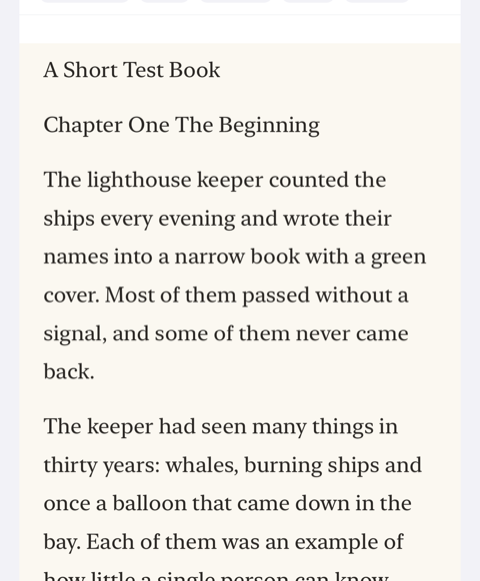
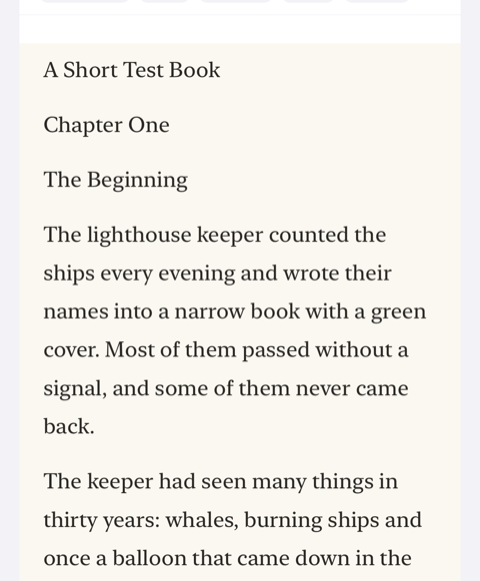
docs(reader): per-model OCR comparison, mermaid overview, paddleocr-vl task in the example
- Reader guide: one table with the same scanned page per OCR model (text mode and image mode with a search hit) and the time per page relative to the fastest model; the overview of how a file becomes a document is a mermaid diagram; shorter Pages and sidecar texts.
- Example app: the OCR panel offers the PaddleOCR-VL task (Text or Spotting); Spotting returns line boxes, so highlights on the page image follow the line.
- README: the Reader section links the guide without the model comparison.

Changed region(s): [[0.0938, 0.2788, 0.9062, 1.0], [0.375, 0.1859, 0.6875, 0.2478]]

diff --git a/example/src/screens/reader/ReaderPanels.tsx b/example/src/screens/reader/ReaderPanels.tsx
@@ -47,7 +47,7 @@ const FAMILY_RESULT: Record<OcrFamily, { name: string; result: string }> = {
   paddleocr_vl: {
     name: 'PaddleOCR-VL',
     result:
-      'Text in paragraphs. No places on the page, so highlights cover the whole page. Large.',
+      'Task Text: paragraphs without places on the page, so highlights cover the whole page. Task Spotting: lines with their places, like PP-OCR. Large.',
   },
 };
 
@@ -229,6 +229,8 @@ export function ReaderOcrPanel({
   pages,
   direction,
   onDirection,
+  paddleTask,
+  onPaddleTask,
   busy,
   progress,
   status,
@@ -244,6 +246,9 @@ export function ReaderOcrPanel({
   pages: { total: number; withText: number };
   direction: 'ltr' | 'rtl';
   onDirection: (d: 'ltr' | 'rtl') => void;
+  /** PaddleOCR-VL task: Markdown text, or lines with their places. */
+  paddleTask: 'ocr' | 'spotting';
+  onPaddleTask: (t: 'ocr' | 'spotting') => void;
   busy: boolean;
   progress: { done: number; total: number } | null;
   status: PanelStatus;
@@ -343,6 +348,17 @@ export function ReaderOcrPanel({
         }
       />
 
+      {family === 'paddleocr_vl' ? (
+        <Choice
+          label="PaddleOCR-VL task"
+          options={['ocr', 'spotting'] as const}
+          value={paddleTask}
+          onChange={onPaddleTask}
+          disabled={busy}
+          format={(t) => (t === 'ocr' ? 'Text' : 'Spotting')}
+        />
+      ) : null}
+
       <Choice
         label="Pages"
         options={['page', 'around', 'all'] as const}
@@ -419,6 +435,7 @@ export function ReaderOcrPanel({
           "recognizeReaderPages(doc, ocr, { scope: 'around', at })",
           "scope: { sections: ['s4'] }, force: true",
           "recognize: { readingDirection: 'rtl' }",
+          "recognize: { instruction: { task: 'spotting' } } // paddleocr_vl",
           'saveReaderRecognition(doc, file) / loadReaderRecognition(doc, file)',
         ]}
       />

diff --git a/example/src/screens/reader/ReaderScreen.tsx b/example/src/screens/reader/ReaderScreen.tsx
@@ -227,6 +227,7 @@ export default function ReaderScreen() {
     );
   }, [setCustomInitForm]);
   const [direction, setDirection] = useState<'ltr' | 'rtl'>('ltr');
+  const [paddleTask, setPaddleTask] = useState<'ocr' | 'spotting'>('ocr');
   const [ocrScope, setOcrScope] = useState<OcrScope>('around');
   const [ocrBusy, setOcrBusy] = useState(false);
   const [ocrProgress, setOcrProgress] = useState<{
@@ -324,7 +325,12 @@ export default function ReaderScreen() {
           scope: scope === 'page' ? { sections: [page] } : scope,
           force: scope === 'page',
           at: position,
-          recognize: { readingDirection: direction },
+          recognize: {
+            readingDirection: direction,
+            ...(engine.family === 'paddleocr_vl'
+              ? { instruction: { task: paddleTask } }
+              : {}),
+          },
           onDocument: apply,
           onProgress: (e) => {
             if (!e.hasText) empty += 1;
@@ -360,7 +366,7 @@ export default function ReaderScreen() {
         setOcrProgress(null);
       }
     },
-    [direction, ocr.engineRef, position]
+    [direction, ocr.engineRef, paddleTask, position]
   );
 
   // Recognized text is saved per book (documentKey) in the app's documents folder.
@@ -914,6 +920,8 @@ export default function ReaderScreen() {
                 pages={pageCoverage}
                 direction={direction}
                 onDirection={setDirection}
+                paddleTask={paddleTask}
+                onPaddleTask={setPaddleTask}
                 busy={ocrBusy}
                 progress={ocrProgress}
                 status={ocrStatus}

diff --git a/docs/reader.md b/docs/reader.md
@@ -93,23 +93,23 @@ Details: [Read aloud](#read-aloud).
 
 ### From file to view
 
-```
-EPUB ──extractDocumentText──▶ text buffer + structure ─┐
-     ──extractDocumentImages(scope: 'all')──▶ images ──┼─▶ ReaderDocument ──▶ <ReaderView>
-     ──computeDocumentKey──▶ documentKey ─────────────┘   (stable IDs, app sections)
-```
-
-`loadReaderDocument(source)` runs all three steps. Use `createReaderDocument` when you already extracted the text, for example to synthesize it as well.
-
-PDFs and comics are page-based:
-
-```
-PDF ──extractPdfTextLayer(layout: 'paragraphs')──▶ text buffer + structure ─┐
-    ──rasterizePdfPages(strategy: 'lazy-lru')──▶ page images ───────────────┼─▶ ReaderDocument
-CBZ ──extractDocumentImages(strategy: 'lazy-lru')──▶ page images ──▶ createReaderDocument({ pages })
+```mermaid
+flowchart LR
+  E["EPUB · FB2 · MOBI"] -->|extractDocumentText| T[text buffer + structure]
+  E -->|"extractDocumentImages(scope: 'all')"| I[images]
+  P[PDF] -->|"extractPdfTextLayer(layout: 'paragraphs')"| T
+  P -->|"rasterizePdfPages(strategy: 'lazy-lru')"| G[page images]
+  C[CBZ] -->|"extractDocumentImages(strategy: 'lazy-lru')"| G
+  T --> D[ReaderDocument]
+  I --> D
+  G --> D
+  K["computeDocumentKey(file)"] --> D
+  D --> V[ReaderView]
 ```
 
-Each page is a section (`kind: 'page'`) whose first block, `s{n}.b0`, is the page image (`type: 'page'`); the page's text blocks follow. `pageDisplay` on the view chooses what is shown: the text, the page images, or both ([Pages](#pages)).
+`loadReaderDocument(source)` runs these steps for every format. Use `createReaderDocument` when you already have the buffers, for example to synthesize the text as well.
+
+In PDFs and comics, each page is a section (`kind: 'page'`) whose first block, `s{n}.b0`, is the page image (`type: 'page'`); the page's text blocks follow. `pageDisplay` on the view chooses what is shown: the text, the page images, or both ([Pages](#pages)).
 
 ### Stable IDs and locators
 
@@ -223,7 +223,7 @@ await saveReaderRecognition(doc, { kind: 'app', base: 'documents', path: 'book.o
 doc = await loadReaderRecognition(doc, { kind: 'app', base: 'documents', path: 'book.ocr' });
 ```
 
-Saves the document's recognized pages to a sidecar file, and loads them back in a later session without running OCR again. The file holds each page's text blocks with their type, place, line boxes and text. Encoding, writing, reading and attaching happen natively, so no text crosses the bridge. Loading rejects a file of another book (`documentKey`), of another model (when you pass `modelId` on save and load and they differ), and one with pages this document does not have (`ERR_READER_SIDECAR_MISMATCH`). It also rejects a corrupt file (`ERR_READER_SIDECAR_INVALID`).
+Saves the document's recognized pages to a sidecar file, and loads them back in a later session without running OCR again. Loading rejects a file of another book (`documentKey`), of another model (when you pass `modelId` on save and load and they differ), and one with pages this document does not have (`ERR_READER_SIDECAR_MISMATCH`). It also rejects a corrupt file (`ERR_READER_SIDECAR_INVALID`).
 
 #### `computeDocumentKey(source)`
 
@@ -602,7 +602,7 @@ Page sections (PDF pages, comic pages) start with their page image; `pageDisplay
 | `'imageAndText'` | The page image, then its text | Running headers, footers and page numbers |
 | `'auto'` (default) | `'image'` for page documents (`format: 'pages'`), else `'text'` | |
 
-Hidden blocks still count for reading progress: they belong to the row that shows them (the page, or the nearest text row), so `onFurthestPositionChange` and `onSectionEnd` see every block. In `'image'`, a block counts as visible when at least half of it (or of the viewport) is on screen, from its rectangle on the page; `scrollTo` a block puts its place on the page at the top. Pages are full width without margins, and their height comes from the page size before the page is rendered.
+Hidden blocks still count for reading progress, so `onFurthestPositionChange` and `onSectionEnd` see every block. In `'image'` mode a block counts as visible where it is on the page, and `scrollTo` a block puts its place on the page at the top.
 
 ## Text for scans and comics
 
@@ -621,32 +621,28 @@ const next = await recognizeReaderPages(doc, ocr, {
 
 Each recognized page gets text blocks `s{n}.b0.t{j}` (for an image block, `{imageBlockId}.t{j}`) right after its page block. The blocks are built from what the model returns:
 
-| | `ppocr`, `doctr`, `paddleocr_vl` spotting | `doc_vlm` | `nemotron_parse`, `paddleocr_vl` (Markdown) |
+| | `ppocr`, `doctr`, `paddleocr_vl` (spotting) | `doc_vlm` | `nemotron_parse`, `paddleocr_vl` (Markdown) |
 | --- | --- | --- | --- |
 | Paragraphs | From the line boxes: reading order, columns, gaps, indents, line ends | The model's items | The Markdown blocks |
 | Headings | — (a clearly larger line is its own paragraph) | Title → level 1, section header → its level | `#` → title / section header |
 | Running headers, page numbers | A lone page number at the top or bottom of the page | Page header / footer elements | — |
-| Place on the page | Union of the paragraph's line boxes | The element's box | — (the whole page) |
+| Highlights on the page image | On the line; a word is placed by its share of the line | On the element's box | On the whole page: the model returns no positions |
 
-The same scanned page with each model, from the example app (iOS simulator on an Apple M4, one page). Top: `'text'` mode. Bottom: `'image'` mode after searching for "lighthouse"; the hit is drawn over the page image, on its line where the model returns positions and over the whole page where it does not.
+The same scanned page with each model:
 
-| `ppocrv6-tiny` | `doctr-mobile` | `docvlm-granite-258m-fp32` | `nemotron-3.5-parse-int8` | `paddleocr-vl-1.6-fp16` |
-| --- | --- | --- | --- | --- |
-| <img src="./images/example/reader_ocr_ppocr_text.png" alt="PP-OCR: lines joined into paragraphs, no headings" width="160" /> | <img src="./images/example/reader_ocr_doctr_text.png" alt="docTR: lines joined into paragraphs, no headings" width="160" /> | <img src="./images/example/reader_ocr_docvlm_text.png" alt="Document VLM: title and section header as headings" width="160" /> | <img src="./images/example/reader_ocr_nemotron_text.png" alt="Nemotron Parse: Markdown headings and paragraphs" width="160" /> | <img src="./images/example/reader_ocr_paddleocr_vl_text.png" alt="PaddleOCR-VL: paragraphs" width="160" /> |
-| <img src="./images/example/reader_ocr_ppocr_image.png" alt="PP-OCR: search hit on its line" width="160" /> | <img src="./images/example/reader_ocr_doctr_image.png" alt="docTR: search hit on its line" width="160" /> | <img src="./images/example/reader_ocr_docvlm_image.png" alt="Document VLM: search hit inside its paragraph box" width="160" /> | <img src="./images/example/reader_ocr_nemotron_image.png" alt="Nemotron Parse: search hit over the whole page" width="160" /> | <img src="./images/example/reader_ocr_paddleocr_vl_image.png" alt="PaddleOCR-VL: search hit over the whole page" width="160" /> |
-| 2 s | 2 s | 31 s | 18 min | 67 s |
+| | `ppocr` | `doctr` | `doc_vlm` | `nemotron_parse` | `paddleocr_vl` (spotting) |
+| --- | --- | --- | --- | --- | --- |
+| `'text'` mode | <img src="./images/example/reader_ocr_ppocr_text.png" alt="Paragraphs, no headings" width="140" /> | <img src="./images/example/reader_ocr_doctr_text.png" alt="Paragraphs, no headings" width="140" /> | <img src="./images/example/reader_ocr_docvlm_text.png" alt="Title and section header as headings" width="140" /> | <img src="./images/example/reader_ocr_nemotron_text.png" alt="Markdown headings and paragraphs" width="140" /> | <img src="./images/example/reader_ocr_paddleocr_vl_text.png" alt="Paragraphs, no headings" width="140" /> |
+| `'image'` mode, a search hit | <img src="./images/example/reader_ocr_ppocr_image.png" alt="The hit on its line" width="140" /> | <img src="./images/example/reader_ocr_doctr_image.png" alt="The hit on its line" width="140" /> | <img src="./images/example/reader_ocr_docvlm_image.png" alt="The hit on its paragraph" width="140" /> | <img src="./images/example/reader_ocr_nemotron_image.png" alt="The hit over the whole page" width="140" /> | <img src="./images/example/reader_ocr_paddleocr_vl_image.png" alt="The hit on its line" width="140" /> |
+| Time per page vs. the fastest | Fastest | Fastest | +1,450 % | +53,500 % | +3,000 % |
 
-Times are for the simulator and only show the order of magnitude; phones differ. For `doc_vlm`, use the `fp32` pack: `q8` is smaller and faster but can repeat a line until `maxNewTokens`, and `fp16` / `q4f16` currently return no text (see [Offline OCR](./ocr-offline.md)). When a model returns nothing for a page, `onProgress` reports `hasText: false` and the page keeps showing its image.
-
-The blocks are text blocks like any other: they show in `'text'` mode (the page image is then hidden), count for reading progress, can be highlighted and searched. In `'image'` mode they count as visible where they are on the page. A page's first heading becomes the section title when the section has none.
-
-To keep the recognized text between sessions, save it with `saveReaderRecognition` and load it with `loadReaderRecognition`; the document then has the same blocks as after OCR.
+OCR blocks work like any other block: they can be highlighted, searched and read aloud, and in `'text'` mode highlights sit on the words for every model. A page's first heading becomes the section title when the section has none. To keep the text between sessions, save it with `saveReaderRecognition` and load it with `loadReaderRecognition`.
 
 Block IDs of OCR text are stable for the same model and settings only; recognizing a page again replaces its blocks. Store positions on OCR pages by the page block (`s{n}.b0`) or keep the `textHash` (see [remapLocator](#remaplocatordoc-stored-hint)).
 
 ## Structure rules
 
-`structureVersion` describes how an EPUB is split into sections and blocks. The rules below change only together with that number; a golden file in the native tests guards them.
+`structureVersion` describes how an EPUB is split into sections and blocks. The rules below change only together with that number.
 
 - **Sections** are the linear spine items, numbered from 0. Items with `linear="no"` are skipped.
 - **Block-forming tags:** `p`, `h1`–`h6`, `li`, `blockquote`, `pre`, `td`.

diff --git a/README.md b/README.md
@@ -527,7 +527,7 @@ The SDK exposes a native, virtualized reading view (`react-native-sherpa-onnx/re
 </tr>
 </table>
 
-Full guide: [Reader](./docs/reader.md), with the same page from each OCR model.
+Full guide: [Reader](./docs/reader.md).
 
 ## Video preview
 
